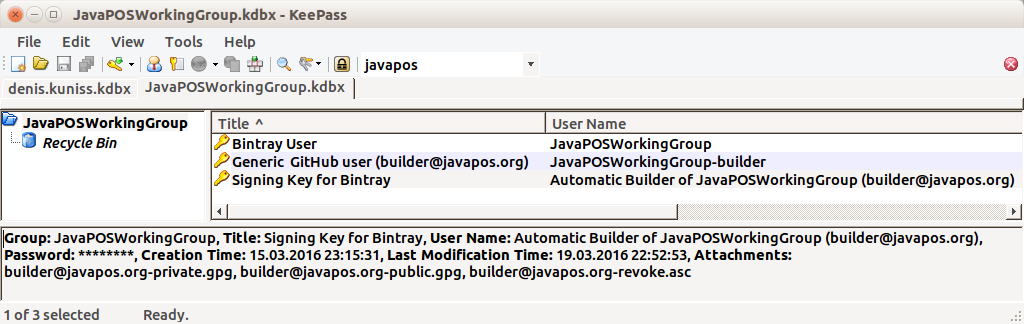
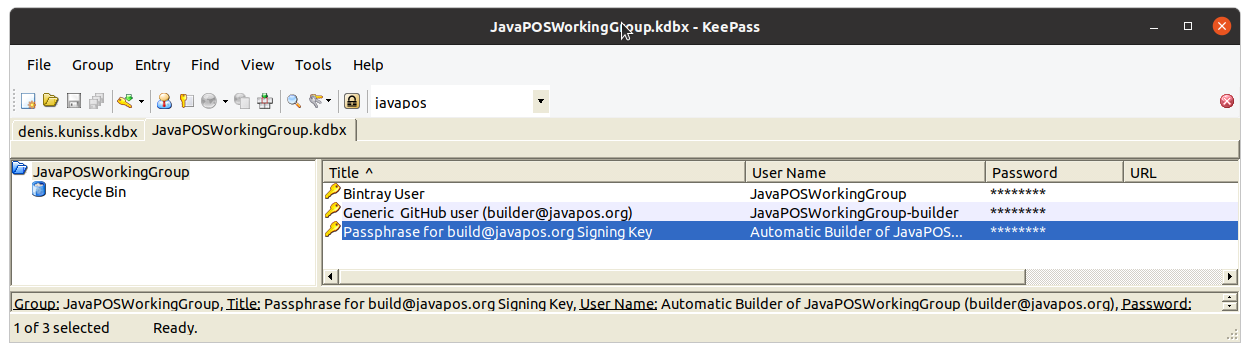
Adjusted notes reflecting at key file changes.

diff --git a/README.md b/README.md
@@ -3,7 +3,7 @@ This project contains editorial information about how projects, build and releas
 
 ## Release Process
 
-The release process of the libraries is described in detail on Denis' blog article ["How To Set Up a Continuous Integration Process in the Cloud"](http://blog.grammarcraft.de/2016/04/23/set-up-a-continuous-integration-process-in-the-cloud/).
+The release process of the libraries is described in detail on Denis' blog article ["How To Set Up a Continuous Integration Process in the Cloud"](http://blog.grammarcraft.de/2016/04/23/set-up-a-continuous-integration-process-in-the-cloud/). However since that it was adapted to run on GitHub Actions as Travis-CI is not for free anymore.
 
 ## Passwords and Keys
 
@@ -14,14 +14,14 @@ The password to this Keepass database file is known to the committee members; in
 The passwords for release process relevant steps are stored in the root of the Keepass database.
 ![Keepass main page](resources/screenshots/Keepass-JavaPOSWorkingGroup.png)
 
-The cryptographic keys for signing are attached to the ''Signing Key for Bintray'' Keepass database entry.
+The cryptographic keys for signing are attached to the ''Passphrase for build@javapos.org Signing Key'' Keepass database entry.
 ![cryptograpic key files for signing](resources/screenshots/Keepass-key-files-attachements.png)
 
 
 ## Image Resources
 
 Avatar images and logos used on different web sites related to this organization are stored at the sub directory [editorial/resources
-](resources). The avatar images are used especially at the [Bintray reposotries](https://bintray.com/javaposworkinggroup/maven). 
+](resources). The avatar images are used especially at the [Bintray repositories](https://bintray.com/javaposworkinggroup/maven). 
 
 ## Manual Import Process of The Historic Sources
 
